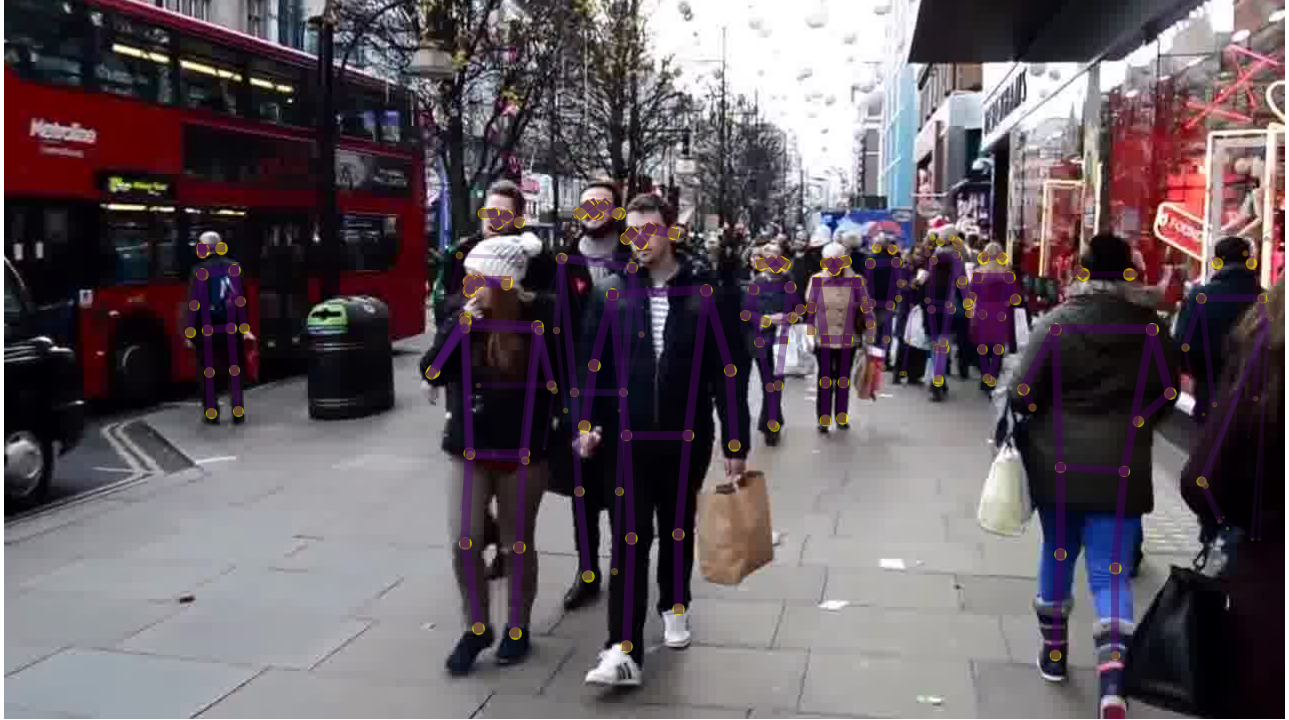
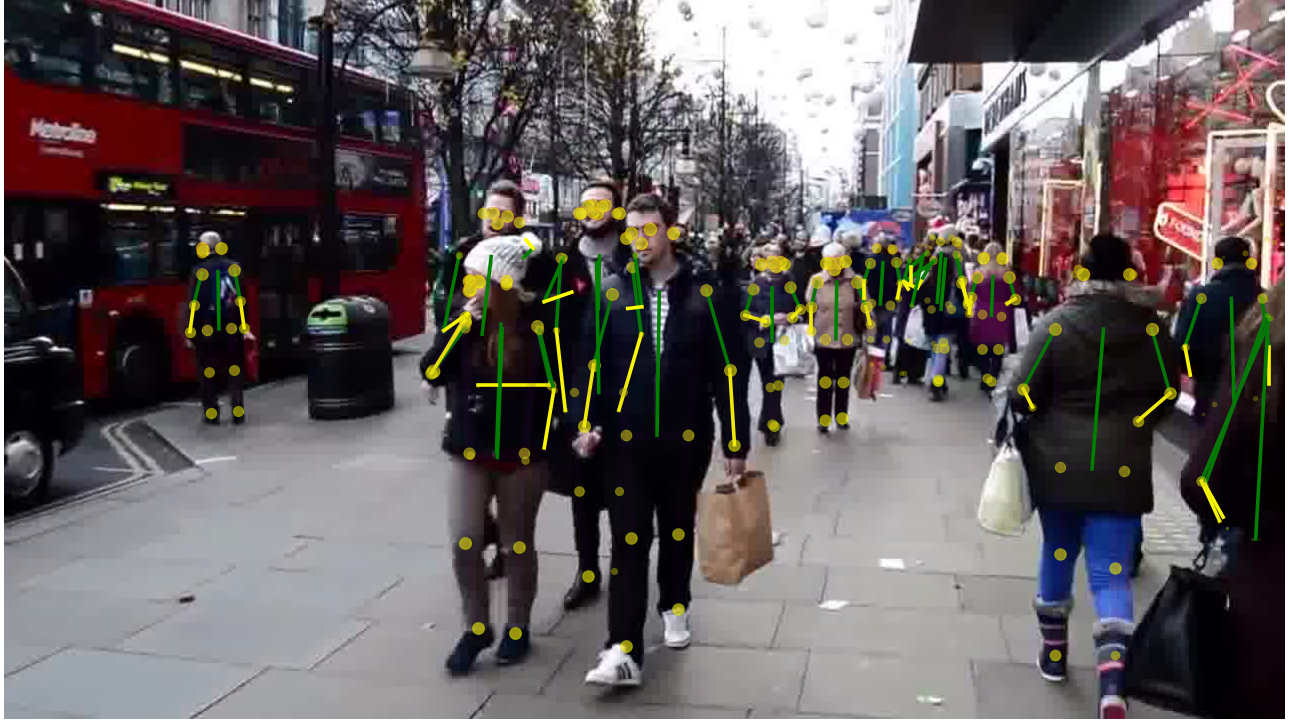
i give up

Changed region(s): [[0.3103, 0.275, 0.993, 0.9167], [0.1241, 0.3361, 0.2172, 0.5806], [0.3724, 0.825, 0.4034, 0.8861]]

diff --git a/lib/Vector.py b/lib/Vector.py
@@ -1,0 +1,249 @@
+
+# BEGIN VECTOR_V5
+"""
+A multi-dimensional ``Vector`` class, take 5
+A ``Vector`` is built from an iterable of numbers::
+    >>> Vector([3.1, 4.2])
+    Vector([3.1, 4.2])
+    >>> Vector((3, 4, 5))
+    Vector([3.0, 4.0, 5.0])
+    >>> Vector(range(10))
+    Vector([0.0, 1.0, 2.0, 3.0, 4.0, ...])
+Tests with 2-dimensions (same results as ``vector2d_v1.py``)::
+    >>> v1 = Vector([3, 4])
+    >>> x, y = v1
+    >>> x, y
+    (3.0, 4.0)
+    >>> v1
+    Vector([3.0, 4.0])
+    >>> v1_clone = eval(repr(v1))
+    >>> v1 == v1_clone
+    True
+    >>> print(v1)
+    (3.0, 4.0)
+    >>> octets = bytes(v1)
+    >>> octets
+    b'd\\x00\\x00\\x00\\x00\\x00\\x00\\x08@\\x00\\x00\\x00\\x00\\x00\\x00\\x10@'
+    >>> abs(v1)
+    5.0
+    >>> bool(v1), bool(Vector([0, 0]))
+    (True, False)
+Test of ``.frombytes()`` class method:
+    >>> v1_clone = Vector.frombytes(bytes(v1))
+    >>> v1_clone
+    Vector([3.0, 4.0])
+    >>> v1 == v1_clone
+    True
+Tests with 3-dimensions::
+    >>> v1 = Vector([3, 4, 5])
+    >>> x, y, z = v1
+    >>> x, y, z
+    (3.0, 4.0, 5.0)
+    >>> v1
+    Vector([3.0, 4.0, 5.0])
+    >>> v1_clone = eval(repr(v1))
+    >>> v1 == v1_clone
+    True
+    >>> print(v1)
+    (3.0, 4.0, 5.0)
+    >>> abs(v1)  # doctest:+ELLIPSIS
+    7.071067811...
+    >>> bool(v1), bool(Vector([0, 0, 0]))
+    (True, False)
+Tests with many dimensions::
+    >>> v7 = Vector(range(7))
+    >>> v7
+    Vector([0.0, 1.0, 2.0, 3.0, 4.0, ...])
+    >>> abs(v7)  # doctest:+ELLIPSIS
+    9.53939201...
+Test of ``.__bytes__`` and ``.frombytes()`` methods::
+    >>> v1 = Vector([3, 4, 5])
+    >>> v1_clone = Vector.frombytes(bytes(v1))
+    >>> v1_clone
+    Vector([3.0, 4.0, 5.0])
+    >>> v1 == v1_clone
+    True
+Tests of sequence behavior::
+    >>> v1 = Vector([3, 4, 5])
+    >>> len(v1)
+    3
+    >>> v1[0], v1[len(v1)-1], v1[-1]
+    (3.0, 5.0, 5.0)
+Test of slicing::
+    >>> v7 = Vector(range(7))
+    >>> v7[-1]
+    6.0
+    >>> v7[1:4]
+    Vector([1.0, 2.0, 3.0])
+    >>> v7[-1:]
+    Vector([6.0])
+    >>> v7[1,2]
+    Traceback (most recent call last):
+      ...
+    TypeError: Vector indices must be integers
+Tests of dynamic attribute access::
+    >>> v7 = Vector(range(10))
+    >>> v7.x
+    0.0
+    >>> v7.y, v7.z, v7.t
+    (1.0, 2.0, 3.0)
+Dynamic attribute lookup failures::
+    >>> v7.k
+    Traceback (most recent call last):
+      ...
+    AttributeError: 'Vector' object has no attribute 'k'
+    >>> v3 = Vector(range(3))
+    >>> v3.t
+    Traceback (most recent call last):
+      ...
+    AttributeError: 'Vector' object has no attribute 't'
+    >>> v3.spam
+    Traceback (most recent call last):
+      ...
+    AttributeError: 'Vector' object has no attribute 'spam'
+Tests of hashing::
+    >>> v1 = Vector([3, 4])
+    >>> v2 = Vector([3.1, 4.2])
+    >>> v3 = Vector([3, 4, 5])
+    >>> v6 = Vector(range(6))
+    >>> hash(v1), hash(v3), hash(v6)
+    (7, 2, 1)
+Most hash values of non-integers vary from a 32-bit to 64-bit CPython build::
+    >>> import sys
+    >>> hash(v2) == (384307168202284039 if sys.maxsize > 2**32 else 357915986)
+    True
+Tests of ``format()`` with Cartesian coordinates in 2D::
+    >>> v1 = Vector([3, 4])
+    >>> format(v1)
+    '(3.0, 4.0)'
+    >>> format(v1, '.2f')
+    '(3.00, 4.00)'
+    >>> format(v1, '.3e')
+    '(3.000e+00, 4.000e+00)'
+Tests of ``format()`` with Cartesian coordinates in 3D and 7D::
+    >>> v3 = Vector([3, 4, 5])
+    >>> format(v3)
+    '(3.0, 4.0, 5.0)'
+    >>> format(Vector(range(7)))
+    '(0.0, 1.0, 2.0, 3.0, 4.0, 5.0, 6.0)'
+Tests of ``format()`` with spherical coordinates in 2D, 3D and 4D::
+    >>> format(Vector([1, 1]), 'h')  # doctest:+ELLIPSIS
+    '<1.414213..., 0.785398...>'
+    >>> format(Vector([1, 1]), '.3eh')
+    '<1.414e+00, 7.854e-01>'
+    >>> format(Vector([1, 1]), '0.5fh')
+    '<1.41421, 0.78540>'
+    >>> format(Vector([1, 1, 1]), 'h')  # doctest:+ELLIPSIS
+    '<1.73205..., 0.95531..., 0.78539...>'
+    >>> format(Vector([2, 2, 2]), '.3eh')
+    '<3.464e+00, 9.553e-01, 7.854e-01>'
+    >>> format(Vector([0, 0, 0]), '0.5fh')
+    '<0.00000, 0.00000, 0.00000>'
+    >>> format(Vector([-1, -1, -1, -1]), 'h')  # doctest:+ELLIPSIS
+    '<2.0, 2.09439..., 2.18627..., 3.92699...>'
+    >>> format(Vector([2, 2, 2, 2]), '.3eh')
+    '<4.000e+00, 1.047e+00, 9.553e-01, 7.854e-01>'
+    >>> format(Vector([0, 1, 0, 0]), '0.5fh')
+    '<1.00000, 1.57080, 0.00000, 0.00000>'
+"""
+
+from array import array
+import reprlib
+import math
+import numbers
+import functools
+import operator
+import itertools  # <1>
+
+
+class Vector:
+    typecode = 'd'
+
+    def __init__(self, components):
+        self._components = array(self.typecode, components)
+
+    def __iter__(self):
+        return iter(self._components)
+
+    def __repr__(self):
+        components = reprlib.repr(self._components)
+        components = components[components.find('['):-1]
+        return 'Vector({})'.format(components)
+
+    def __str__(self):
+        return str(tuple(self))
+
+    def __bytes__(self):
+        return (bytes([ord(self.typecode)]) +
+                bytes(self._components))
+
+    def __eq__(self, other):
+        return (len(self) == len(other) and
+                all(a == b for a, b in zip(self, other)))
+
+    def __hash__(self):
+        hashes = (hash(x) for x in self)
+        return functools.reduce(operator.xor, hashes, 0)
+
+    def __abs__(self):
+        return math.sqrt(sum(x * x for x in self))
+
+    def __bool__(self):
+        return bool(abs(self))
+
+    def __len__(self):
+        return len(self._components)
+
+    def __getitem__(self, index):
+        cls = type(self)
+        if isinstance(index, slice):
+            return cls(self._components[index])
+        elif isinstance(index, numbers.Integral):
+            return self._components[index]
+        else:
+            msg = '{.__name__} indices must be integers'
+            raise TypeError(msg.format(cls))
+
+    shortcut_names = 'xyzt'
+
+    def __getattr__(self, name):
+        cls = type(self)
+        if len(name) == 1:
+            pos = cls.shortcut_names.find(name)
+            if 0 <= pos < len(self._components):
+                return self._components[pos]
+        msg = '{.__name__!r} object has no attribute {!r}'
+        raise AttributeError(msg.format(cls, name))
+
+    def angle(self, n):  # <2>
+        r = math.sqrt(sum(x * x for x in self[n:]))
+        a = math.atan2(r, self[n-1])
+        if (n == len(self) - 1) and (self[-1] < 0):
+            return math.pi * 2 - a
+        else:
+            return a
+
+    def angles(self):  # <3>
+        return (self.angle(n) for n in range(1, len(self)))
+
+    def __format__(self, fmt_spec=''):
+        if fmt_spec.endswith('h'):  # hyperspherical coordinates
+            fmt_spec = fmt_spec[:-1]
+            coords = itertools.chain([abs(self)],
+                                     self.angles())  # <4>
+            outer_fmt = '<{}>'  # <5>
+        else:
+            coords = self
+            outer_fmt = '({})'  # <6>
+        components = (format(c, fmt_spec) for c in coords)  # <7>
+        return outer_fmt.format(', '.join(components))  # <8>
+
+    @classmethod
+    def frombytes(cls, octets):
+        typecode = chr(octets[0])
+        memv = memoryview(octets[1:]).cast(typecode)
+        return cls(memv)
+# END VECTOR_V5
+# ————————————————
+# 版权声明：本文为CSDN博主「Kun Li」的原创文章，遵循CC 4.0 BY-SA版权协议，转载请附上原文出处链接及本声明。
+# 原文链接：https://blog.csdn.net/u012193416/article/details/89396261

diff --git a/basic_recognition.py b/basic_recognition.py
@@ -5,6 +5,22 @@ from PIL import Image
 import matplotlib.pyplot as plt
 from tqdm import tqdm
 
+
+def angle(v1, v2):
+    return np.abs(np.arccos(np.dot(v1, v2) / (np.linalg.norm(v1) * np.linalg.norm(v2))))
+
+
+def angleBetweenLines(line1, line2):
+    # line1 = [[x1, y1], [x2, y2]]
+    # line2 = [[x3, y3], [x4, y4]]
+    x1, y1 = line1[0]
+    x2, y2 = line1[1]
+    x3, y3 = line2[0]
+    x4, y4 = line2[1]
+    v1 = [x2 - x1, y2 - y1]
+    v2 = [x4 - x3, y4 - y3]
+    return angle(v1, v2)
+
 # visualization (from poseflow)
 
 
@@ -27,18 +43,93 @@ def display_pose(imgdir, visdir, tracked, cmap):
             else:
                 alpha_ratio = 5.0
 
+            #                    0       1       2       3        4        5             6          7
             coco_part_names = ['Nose', 'LEye', 'REye', 'LEar', 'REar', 'LShoulder', 'RShoulder', 'LElbow',
                                'RElbow', 'LWrist', 'RWrist', 'LHip', 'RHip', 'LKnee', 'RKnee', 'LAnkle', 'RAnkle']
+            #                     8          9         10      11      12       13       14       15        16
             colors = ['r', 'r', 'r', 'r', 'r', 'y', 'y', 'y',
                       'y', 'y', 'y', 'g', 'g', 'g', 'g', 'g', 'g']
             pairs = [[0, 1], [0, 2], [1, 3], [2, 4], [5, 6], [5, 7], [7, 9], [6, 8], [
                 8, 10], [11, 12], [11, 13], [13, 15], [12, 14], [14, 16], [6, 12], [5, 11]]
+
+            raised = {}
+
+            LBody = [np.clip(pose[[5, 11], 0], 0, width),
+                     np.clip(pose[[5, 11], 1], 0, height)]
+            RBody = [np.clip(pose[[6, 12], 0], 0, width),
+                     np.clip(pose[[6, 12], 1], 0, height)]
+
+            # Calculate the average line of the line LBody and the line RBody
+            Body = [[(LBody[0][0] + RBody[0][0]) / 2, (LBody[0][1] + RBody[0][1]) / 2],
+                    [(LBody[1][0] + RBody[1][0]) / 2, (LBody[1][1] + RBody[1][1]) / 2]]
+            drawLine(Body, 'green')
+            stdAngle = angle(Body[0], Body[1])
+
+            # Determine whether the person's left upper arm is raised
+            # If the angle between the left ankle to shoulder and the standard angle is greater than 90 degrees, it is considered to be raised
+            LArm = [np.clip(pose[[5, 7], 0], 0, width),
+                    np.clip(pose[[5, 7], 1], 0, height)]
+            if angleBetweenLines(LArm, Body) > 1.57:
+                drawLine(LArm, 'yellow')
+                raised['LArm'] = True
+            else:
+                drawLine(LArm, 'green')
+                raised['LArm'] = False
+
+            # Same for the right upper arm
+            RArm = [np.clip(pose[[6, 8], 0], 0, width),
+                    np.clip(pose[[6, 8], 1], 0, height)]
+            if angleBetweenLines(RArm, Body) > 1.57:
+                drawLine(RArm, 'yellow')
+                raised['RArm'] = True
+            else:
+                drawLine(RArm, 'green')
+                raised['RArm'] = False
+
+            # Determine whether the person's left lower arm is raised
+            # If the angle between the left wrist to elbow and the upper arm is lower than 90 degrees, it is considered to be raised, unless the upper arm is raised
+            LLArm = [np.clip(pose[[7, 9], 0], 0, width),
+                     np.clip(pose[[7, 9], 1], 0, height)]
+            if raised['LArm']:
+                if angleBetweenLines(LLArm, LArm) > 1.57:
+                    drawLine(LLArm, 'yellow')
+                    raised['LLArm'] = True
+                else:
+                    drawLine(LLArm, 'green')
+                    raised['LLArm'] = False
+            else:
+                if angleBetweenLines(LLArm, LArm) > 1.57:
+                    drawLine(LLArm, 'green')
+                    raised['LLArm'] = False
+                else:
+                    drawLine(LLArm, 'yellow')
+                    raised['LLArm'] = True
+
+            # Same for the right lower arm
+            RLArm = [np.clip(pose[[8, 10], 0], 0, width),
+                     np.clip(pose[[8, 10], 1], 0, height)]
+            if raised['RArm']:
+                if angleBetweenLines(RLArm, RArm) > 1.57:
+                    drawLine(RLArm, 'yellow')
+                    raised['RLArm'] = True
+                else:
+                    drawLine(RLArm, 'green')
+                    raised['RLArm'] = False
+            else:
+                if angleBetweenLines(RLArm, RArm) > 1.57:
+                    drawLine(RLArm, 'green')
+                    raised['RLArm'] = False
+                else:
+                    drawLine(RLArm, 'yellow')
+                    raised['RLArm'] = True
+
+            # Draw the keypoints
             for idx_c, color in enumerate(colors):
                 plt.plot(np.clip(pose[idx_c, 0], 0, width), np.clip(pose[idx_c, 1], 0, height), marker='o',
                          color=color, ms=80/alpha_ratio*np.mean(pose[idx_c, 2]), markerfacecolor=(1, 1, 0, 0.7/alpha_ratio*pose[idx_c, 2]))
             for idx in range(len(pairs)):
                 plt.plot(np.clip(pose[pairs[idx], 0], 0, width), np.clip(pose[pairs[idx], 1], 0, height), 'r-',
-                         color=cmap(tracked_id), linewidth=60/alpha_ratio*np.mean(pose[pairs[idx], 2]), alpha=0.6/alpha_ratio*np.mean(pose[pairs[idx], 2]))
+                         color=cmap(tracked_id), linewidth=60/alpha_ratio*np.mean(pose[pairs[idx], 2]), alpha=0.1/alpha_ratio*np.mean(pose[pairs[idx], 2]))
         plt.axis('off')
         ax = plt.gca()
         ax.set_xlim([0, width])
@@ -49,10 +140,17 @@ def display_pose(imgdir, visdir, tracked, cmap):
         fig.savefig(os.path.join(visdir, imgname.split(".")[
                     0]+".png"), pad_inches=0.0, bbox_inches=extent, dpi=13)
         plt.close()
-        
+
+
 def reader(path):
     with open(path, 'r') as f:
         data = json.load(f)
     return data
 
-display_pose('examples/','examples/vis/',reader('examples/output.json'),plt.cm.get_cmap())
+
+def drawLine(line: list, color: str):
+    plt.plot(line[0], line[1], 'r-', linewidth=20, color=color)
+
+
+display_pose('examples/', 'examples/vis/',
+             reader('examples/output.json'), plt.cm.get_cmap())
